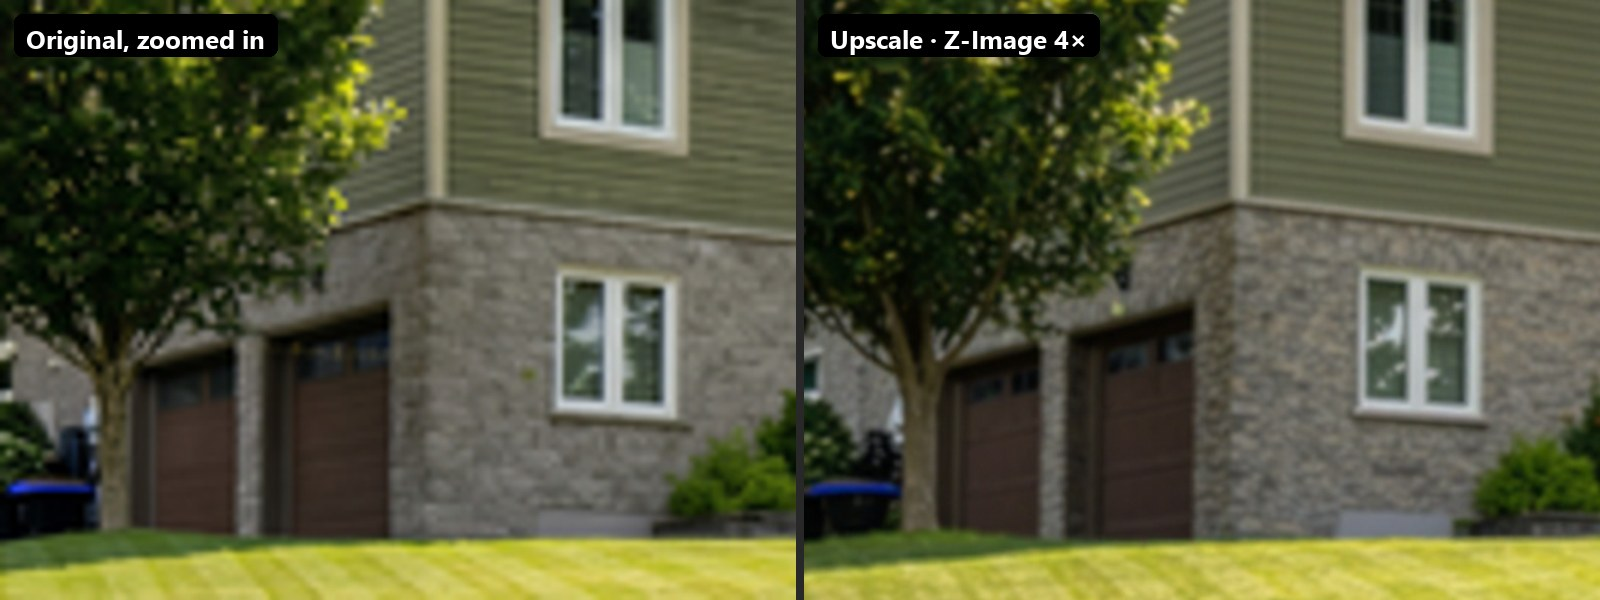
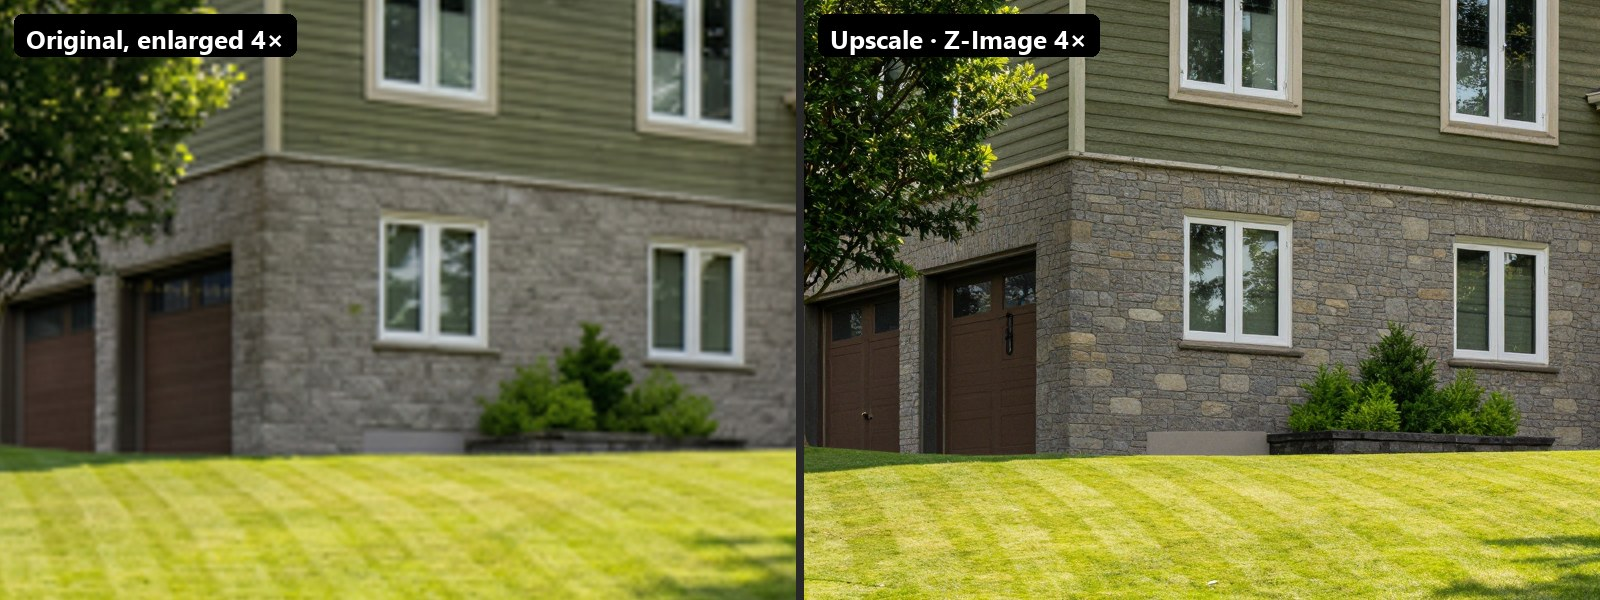
Upscale from an upscale model, and sharper docs examples
Z-Image at strength 0.3 mostly keeps what it's given, so starting from a
lanczos enlargement left upscales blurry at full size. The template now
starts from 4x NMKD Superscale (WTFPL), scaled to the chosen size, as
Krita AI Diffusion does; stone, doors and shrubs come out sharp.

The refine example now uses strength 0.75 with ControlNet strength 0.6,
which redraws soft leaves, and both examples are cropped tighter so the
difference shows at README size.

diff --git a/nodes/templates.py b/nodes/templates.py
@@ -65,6 +65,7 @@ MODEL_INPUTS = {
     ("IPAdapterModelLoader", "ipadapter_file"): "ipadapter",
     ("ModelPatchLoader", "name"): "model_patches",
     ("LoraLoader", "lora_name"): "loras",
+    ("UpscaleModelLoader", "model_name"): "upscale_models",
 }
 
 

diff --git a/docs/usage.md b/docs/usage.md
@@ -71,7 +71,7 @@ For changes described in words: recolor, replace, add or remove things inside th
 Img2img: SDXL repaints the selection (or the whole image) while a tile ControlNet keeps its shapes. Good
 for adding realism, texture and light to a rough render or a weak area.
 
-![Soft trees before and after an SDXL refine at strength 0.6: the leaves come out](images/example-refine.jpg)
+![Soft trees before and after an SDXL refine at strength 0.75 and ControlNet strength 0.6: the leaves come out](images/example-refine.jpg)
 
 - **Strength** is how much it repaints: 0.3 polishes, 0.6 reworks, 1 starts over.
 - **Tile ControlNet** keeps shapes in place. Leave it on above strength ~0.5, otherwise SDXL redraws the
@@ -81,6 +81,8 @@ for adding realism, texture and light to a rough render or a weak area.
   seconds; a 2048 px area about a minute.
 - **ControlNet end** (0.95) leaves the last steps free so fine texture comes out crisp. Lower lets SDXL
   invent more detail of its own.
+- For soft vegetation, try Strength 0.75 with **ControlNet strength** (Advanced) at 0.6: the shapes stay,
+  and SDXL is free to draw new leaves.
 
 ## Upscale (Z-Image Turbo)
 
@@ -92,7 +94,7 @@ for adding realism, texture and light to a rough render or a weak area.
 - Tiny symbols and lettering (a flag's emblem, a sign) can come out changed, especially from a small
   source image. Lower **Strength** to 0.2 for those, or keep the original there with a layer mask.
 
-![A close zoom into a 384 px image, enlarged plainly and with a 4× Z-Image upscale: brick, tree trunk and garage windows come out](images/example-upscale.jpg)
+![A 256 px wide detail enlarged plainly and with a 4× Z-Image upscale: stone, garage doors and shrubs come out sharp](images/example-upscale.jpg)
 
 ## Magnific (Nano Banana)
 

diff --git a/README.md b/README.md
@@ -36,13 +36,13 @@ blended in, at full resolution.
 
 ![Before and after a Flux 2 Klein edit](docs/images/example-edit.jpg)
 
-**Refine** with SDXL at strength 0.6: soft, smeared trees get real leaves (detail)
+**Refine** with SDXL (strength 0.75, ControlNet strength 0.6): soft, smeared trees get real leaves (detail)
 
 ![Soft trees before and after an SDXL refine](docs/images/example-refine.jpg)
 
-**Upscale** 4× with Z-Image Turbo, a close zoom into a 384 px image
+**Upscale** 4× with Z-Image Turbo: a 256 px wide detail, enlarged plainly and upscaled
 
-![The small original enlarged next to the Z-Image upscale: brick, tree trunk and garage windows come out](docs/images/example-upscale.jpg)
+![The small original enlarged next to the Z-Image upscale: stone, garage doors and shrubs come out sharp](docs/images/example-upscale.jpg)
 
 **Magnific** with Nano Banana 2.1: "Turn this into a night photograph: deep blue sky after dusk, warm
 light glowing from every window, the porch light on, soft landscape lights along the walk…"

diff --git a/docs/templates.md b/docs/templates.md
@@ -84,8 +84,10 @@ mode, and EasyCache.
 
 ### Z-Image upscale (`zimage_upscale`)
 
-Follows Krita AI Diffusion's Z-Image Turbo upscale: a lanczos upscale, then a refine in tiles (PS Tiled
-Refine) with the Z-Image Fun tile ControlNet. CFG 1 (Turbo is distilled; higher looked the same and was
+Follows Krita AI Diffusion's Z-Image Turbo upscale: a 4× upscale model (NMKD Superscale), scaled to the
+chosen size, then a refine in tiles (PS Tiled Refine) with the Z-Image Fun tile ControlNet. Starting from
+a plain lanczos enlargement instead left the result blurry: Z-Image at strength 0.3 mostly keeps what it's
+given. CFG 1 (Turbo is distilled; higher looked the same and was
 slower), 15 steps, 896 px tiles, "4k uhd" as the prompt suffix.
 
 ### Nano Banana (`nano_banana_2_1`, `nano_banana_pro`, `nano_banana_pro_flash`)

diff --git a/docs/install.md b/docs/install.md
@@ -73,6 +73,7 @@ Klein 4B is Apache 2.0. The 9B model is non-commercial.
 | `qwen_3_4b.safetensors` | `text_encoders` |
 | `flux_vae.safetensors` | `vae` |
 | `Z-Image-Turbo-Fun-Controlnet-Tile-2.1-lite-2601-8steps.safetensors` | `model_patches` |
+| `4x_NMKD-Superscale-SP_178000_G.pth` ([OpenModelDB](https://openmodeldb.info/models/4x-NMKD-Superscale), WTFPL) | `upscale_models` |
 
 **Magnific: Nano Banana** (`nano_banana_2_1`, `nano_banana_pro`, `nano_banana_pro_flash`): no models,
 but a Magnific API key (below).
